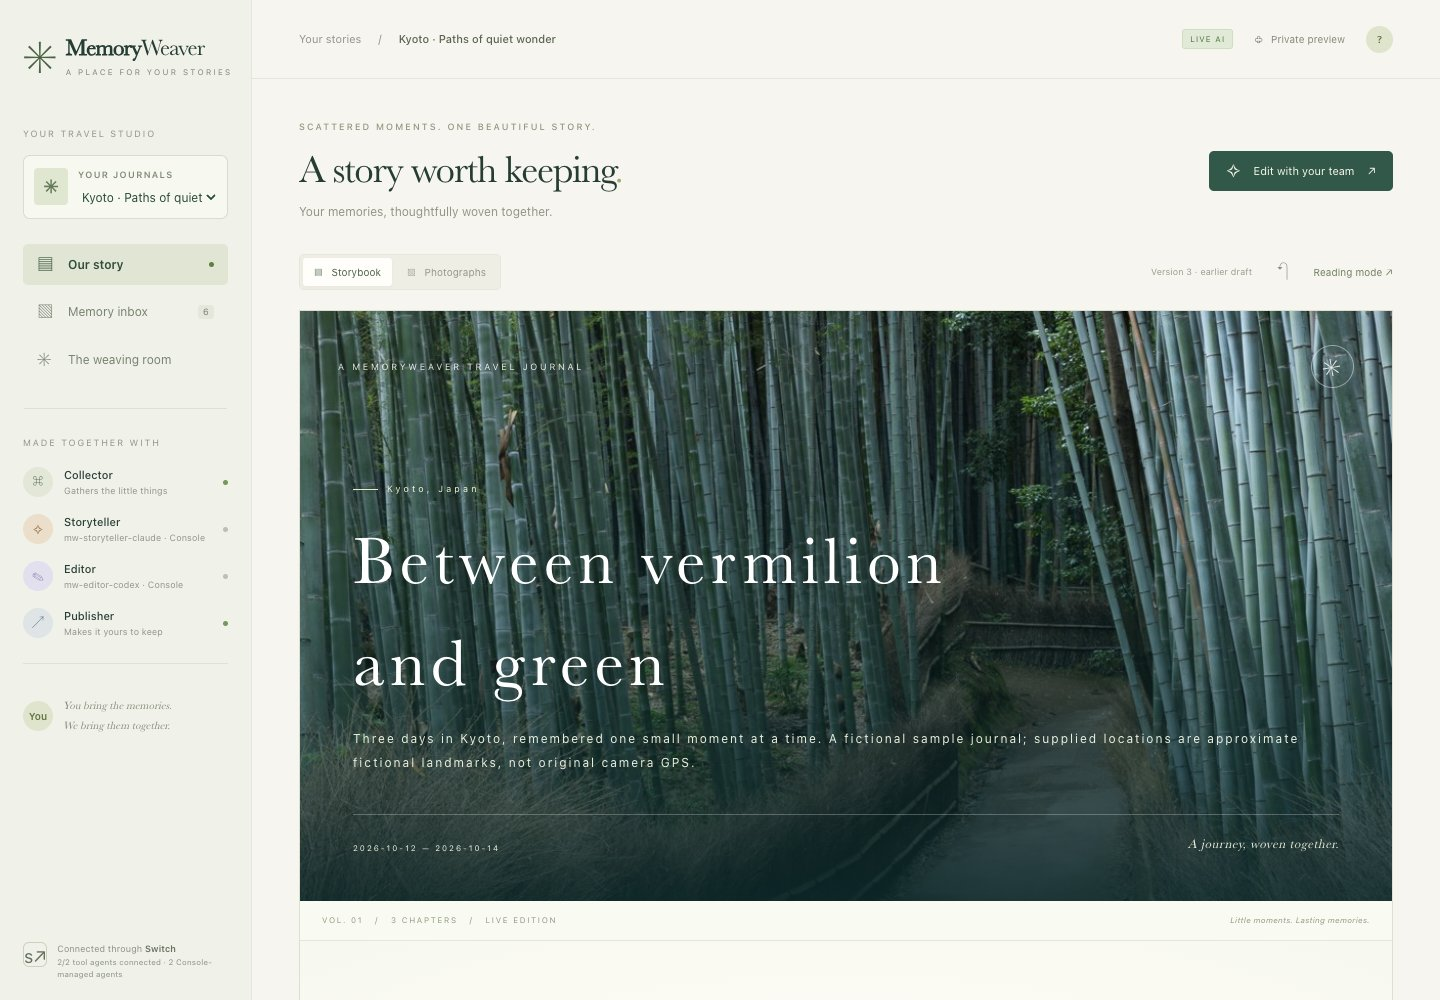
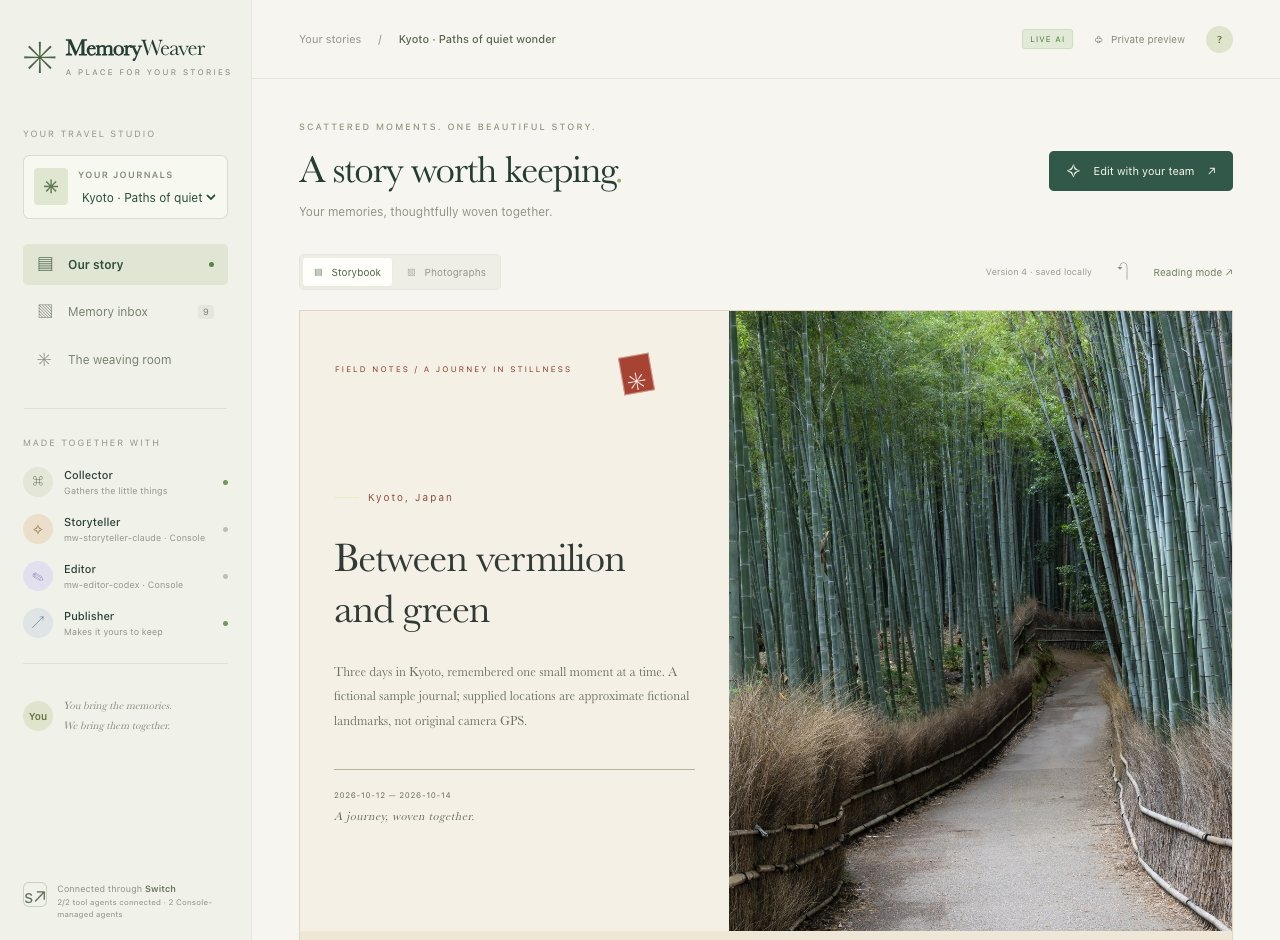
Document and verify richer journals in an independent Docker environment

diff --git a/docs/VERIFICATION.md b/docs/VERIFICATION.md
@@ -7,6 +7,8 @@
 - Web, PDF and sanitized exports use an edition-bound allowlisted design: Kyoto `quiet`, Paris `editorial`, New York `urban`. AI collaborators can select the recipe through Album JSON; missing recipes resolve from supplied destination/cited place names. Raw model CSS/HTML is rejected by the schema. Style changes invalidate the exact-version publication digest; older recipe-less editions use classic and previously delivered PDFs remain byte-stable.
 - **71 Python tests passed**, including actual PDF rendering for all three new recipes, six distinct sourced photos per book, location/recipe snapshot and consent integrity, export verification, and existing delivery/privacy regressions. **8 desktop/mobile Chromium tests passed** with all six photographs loaded in each book, matching recipe attributes, local map interactions, no remote image/font/tile requests, no horizontal overflow, and retained legacy links.
 - Upgraded the running Docker setup and seeded only missing posts through real Mattermost/Switch. Re-running the seed checks per-post receipts instead of skipping all additions after `seed:complete`. Publisher's asynchronous Switch → Mattermost delivery required the native smoke observer to wait for the actual post, rather than assume immediate bridge visibility after acceptance.
+- **Fresh clone verified for this change:** commit `817f189` was cloned into an independent checkout; bootstrap fetched the official source pin, generated different credentials, and used project `memoryweaver-design-judge` with fresh PostgreSQL/Mattermost/data/auth volumes and ports 18000/18065/18787/55434. No developer/native authentication was copied. All three books contained exactly their fixture photos (6 each), 9/8/8 source memories, distinct recipe IDs and non-overlapping source IDs. Real Publisher posts had the correct trip/version links and byte-identical cover/PDF downloads. Re-seeding added no duplicates.
+- The independent stack passed the full `scripts.smoke` regression: generation, cover edit, prose edit, prior versions, actual PDF delivery, resend recovery without duplicate publication posts, stale-consent rejection, contributor authorization and verified local export (12 allowlisted files). Cloud publishing stayed disabled. The test stack was stopped with volumes retained. The developer stack was restored/checked afterward: Kyoto LIVE v4, Paris REPLAY v3 and New York REPLAY v2 all retain six photos and verified Mattermost/HTTP artifact bytes; existing private Okinawa LIVE v13 retains its seven sources/five photos.
 - Updated the English README with photo counts, design behavior, explicit redesign instructions and the additive upgrade procedure. Cloud publication remains disabled; no GitHub/Cloudflare book publication or approval was performed.
 
 ## Locations and world-trip showcase — November 5, 2026

diff --git a/README.md b/README.md
@@ -2,7 +2,7 @@
 
 **Turn Scattered Memories into Beautiful Stories.**
 
-A photograph of the sea. A message about the biggest whale shark you have ever seen. A quiet “let’s come back.” MemoryWeaver brings those fragments together into a travel book, with people and AI teammates sharing one creative room through **Switch**.
+A photograph beneath vermilion gates. A message from a walk along the Seine. A quiet “let’s come back.” MemoryWeaver brings those fragments together into a travel book, with people and AI teammates sharing one creative room through **Switch**.
 
 Built for [Flip the Switch](https://www.wemakedevs.org/hackathons/switch), Track 2: Best Personal or Creative Workflow.
 
@@ -245,6 +245,8 @@ In live mode, Storyteller calls **Claude Code** with a structured album schema; 
 The container-CLI option uses custom Switch workers. Switch Console is optional for that path and required for the GUI-first path above. Neither option bypasses provider authentication.
 
 ## A different design for each journey
+
+![Kyoto quiet journal, Paris editorial magazine and New York urban book designs](docs/screenshots/designs.jpg)
 
 Each starter book includes **six distinct licensed photographs**, supplied by real sample Mattermost posts, with captions and approximate fictional locations. Six is the fixture size, **not an application photo limit**. Additional user uploads follow the same Collector → Switch documents → Storyteller → Editor → Publisher path.
 
